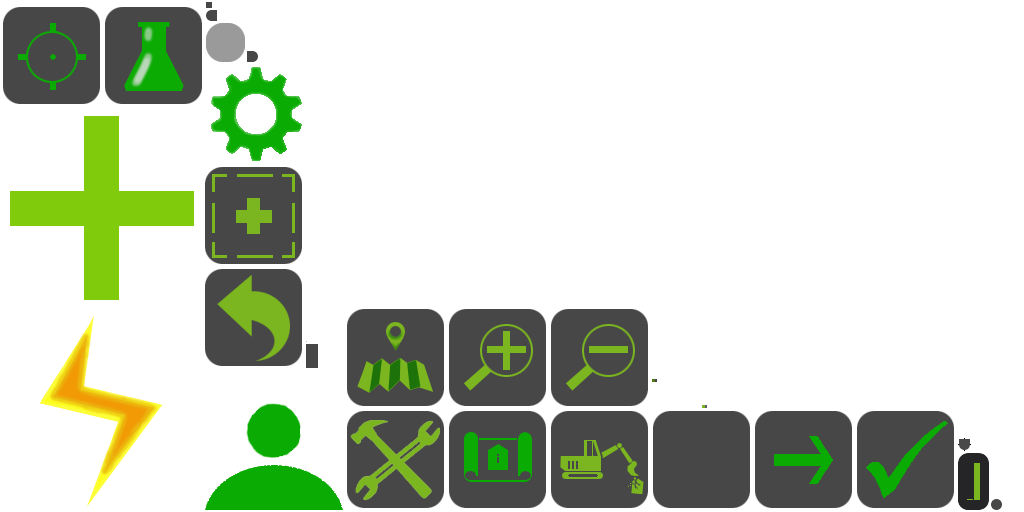
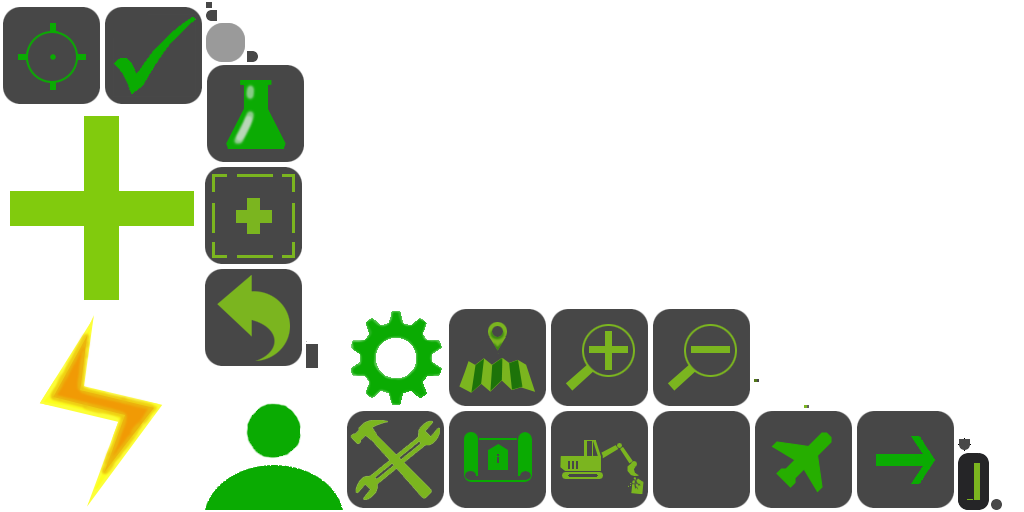
Fixed BuildingGUI and created UnitBuildingGUI

diff --git a/core/src/geobattle/geobattle/screens/gamescreen/UnitBuildingGUI.java b/core/src/geobattle/geobattle/screens/gamescreen/UnitBuildingGUI.java
@@ -1,0 +1,152 @@
+package geobattle.geobattle.screens.gamescreen;
+
+import com.badlogic.gdx.Gdx;
+import com.badlogic.gdx.assets.AssetManager;
+import com.badlogic.gdx.scenes.scene2d.Actor;
+import com.badlogic.gdx.scenes.scene2d.ui.Skin;
+import com.badlogic.gdx.scenes.scene2d.ui.Table;
+import com.badlogic.gdx.scenes.scene2d.utils.ChangeListener;
+import com.badlogic.gdx.utils.Align;
+import com.badlogic.gdx.utils.Array;
+import com.kotcrab.vis.ui.util.adapter.AbstractListAdapter;
+import com.kotcrab.vis.ui.util.adapter.ArrayAdapter;
+import com.kotcrab.vis.ui.widget.ListView;
+import com.kotcrab.vis.ui.widget.VisDialog;
+import com.kotcrab.vis.ui.widget.VisLabel;
+import com.kotcrab.vis.ui.widget.VisTable;
+import com.kotcrab.vis.ui.widget.VisTextButton;
+
+import geobattle.geobattle.GeoBattleAssets;
+import geobattle.geobattle.game.units.UnitType;
+
+public final class UnitBuildingGUI {
+    private final Skin skin;
+
+    public final VisDialog root;
+
+    public final VisLabel unitName;
+
+    public final VisLabel description;
+
+    public final VisLabel strength;
+
+    public final VisTextButton buildButton;
+
+    private UnitType unitType;
+
+    public UnitBuildingGUI(AssetManager assetManager, final GameScreen screen) {
+        skin = assetManager.get(GeoBattleAssets.GUI_SKIN);
+
+        unitType = UnitType.BOMBER;
+
+        root = new VisDialog(screen.getI18NBundle().get("unitBuilding"));
+
+        unitName = new VisLabel("");
+        description = new VisLabel("");
+        strength = new VisLabel("");
+        buildButton = new VisTextButton("");
+        buildButton.addListener(new ChangeListener() {
+            @Override
+            public void changed(ChangeEvent event, Actor actor) {
+                screen.getGameEvents().onUnitBuild(unitType);
+                // root.hide();
+            }
+        });
+
+        init(screen);
+    }
+
+    public void init(final GameScreen screen) {
+        root.getContentTable().clear();
+        root.getButtonsTable().clear();
+        root.getContentTable().pad(20);
+
+        Table unitInfo = new Table(skin);
+        unitName.setAlignment(Align.left, Align.left);
+        unitInfo.add(unitName).growX();
+        unitInfo.row();
+        description.setAlignment(Align.left, Align.left);
+        unitInfo.add(description).growX();
+        unitInfo.row();
+        strength.setAlignment(Align.left, Align.left);
+        unitInfo.add(strength).growX();
+        unitInfo.row();
+
+        ArrayAdapter<UnitType, VisTable> adapter = new ArrayAdapter<UnitType, VisTable>(Array.with(new UnitType[] { UnitType.BOMBER })) {
+            @Override
+            protected VisTable createView(UnitType item) {
+                VisTable result = new VisTable();
+
+                VisLabel label = new VisLabel(screen.getI18NBundle().get(String.format("unit%s", item.toString())));
+                result.add(label)
+                        .height(Math.max(50, (int) (Gdx.graphics.getPpcY() * 0.9f)));
+
+                if (item == unitType)
+                    selectView(result);
+                else
+                    deselectView(result);
+
+                return result;
+            }
+
+            @Override
+            protected void selectView(VisTable view) {
+                view.setBackground("listItemSelected");
+            }
+
+            @Override
+            protected void deselectView(VisTable view) {
+                view.setBackground("listItemDeselected");
+            }
+        };
+
+        adapter.setSelectionMode(AbstractListAdapter.SelectionMode.SINGLE);
+
+        final ListView<UnitType> unitTypes = new ListView<UnitType>(adapter);
+
+        unitTypes.setItemClickListener(new ListView.ItemClickListener<UnitType>() {
+            @Override
+            public void clicked(UnitType item) {
+                setUnitType(screen, item);
+            }
+        });
+
+        adapter.getSelection().setSize(1);
+        adapter.getSelection().set(0, unitType);
+        unitTypes.getClickListener().clicked(unitType);
+
+        root.getContentTable().add(unitTypes.getMainTable())
+                .growX()
+                .width(Gdx.graphics.getWidth() - 120)
+                .pad(5);
+        root.getContentTable().row();
+        root.getContentTable().add(unitInfo)
+                .growX()
+                .width(Gdx.graphics.getWidth() - 120)
+                .pad(5);
+
+        root.getButtonsTable().add(buildButton)
+                .width(Math.max(Gdx.graphics.getPpcY() * 2, (int) (buildButton.getMinWidth() * 1.2f)))
+                .height(Math.max(50, Gdx.graphics.getPpcY() * 0.9f));
+
+        VisTextButton close = new VisTextButton(screen.getI18NBundle().get("close"), new ChangeListener() {
+            @Override
+            public void changed(ChangeEvent event, Actor actor) {
+                root.hide();
+            }
+        });
+
+        root.getButtonsTable().add(close)
+                .width(Math.max(Gdx.graphics.getPpcY() * 2, (int) (buildButton.getMinWidth() * 1.2f)))
+                .height(Math.max(50, Gdx.graphics.getPpcY() * 0.9f));
+
+        root.center();
+    }
+
+    public void setUnitType(GameScreen screen, UnitType unitType) {
+        unitName.setText(screen.getI18NBundle().get(String.format("unit%s", unitType.toString())));
+        description.setText(screen.getI18NBundle().get(String.format("unit%sDescription", unitType.toString())));
+        strength.setText(screen.getI18NBundle().format("unitStrength", unitType.maxHealth));
+        buildButton.setText(screen.getI18NBundle().format("unitBuild", unitType.cost));
+    }
+}

diff --git a/core/src/geobattle/geobattle/screens/gamescreen/GameScreenGUI.java b/core/src/geobattle/geobattle/screens/gamescreen/GameScreenGUI.java
@@ -6,22 +6,19 @@ import com.badlogic.gdx.scenes.scene2d.Actor;
 import com.badlogic.gdx.scenes.scene2d.Stage;
 import com.badlogic.gdx.scenes.scene2d.ui.Dialog;
 import com.badlogic.gdx.scenes.scene2d.ui.Skin;
-import com.badlogic.gdx.scenes.scene2d.ui.TextButton;
 import com.badlogic.gdx.scenes.scene2d.utils.ChangeListener;
 import com.badlogic.gdx.utils.Align;
 import com.kotcrab.vis.ui.widget.VisImage;
 import com.kotcrab.vis.ui.widget.VisImageButton;
 import com.kotcrab.vis.ui.widget.VisLabel;
 import com.kotcrab.vis.ui.widget.VisTable;
-import com.kotcrab.vis.ui.widget.VisTextButton;
 
 import geobattle.geobattle.GeoBattleAssets;
 import geobattle.geobattle.game.buildings.Building;
 import geobattle.geobattle.game.buildings.BuildingType;
-import geobattle.geobattle.game.units.UnitType;
 
 // GUI for game screen
-final class GameScreenGUI {
+public final class GameScreenGUI {
     // GUI skin
     private final Skin skin;
 
@@ -79,6 +76,9 @@ final class GameScreenGUI {
     // Tool bar for hangar
     public final VisTable hangarToolBar;
 
+    // "Unit building" dialog
+    public final UnitBuildingGUI hangarDialog;
+
     // "Research" dialog
     public final ResearchGUI researchDialog;
 
@@ -93,6 +93,9 @@ final class GameScreenGUI {
 
     // Size of usual tool bar button
     private int buttonSize;
+
+    // Selected building
+    private Building selectedBuilding;
 
     // Initializes GUI
     public GameScreenGUI(AssetManager assetManager, final GameScreen screen, final Stage guiStage) {
@@ -137,6 +140,8 @@ final class GameScreenGUI {
         hangarToolBar = new VisTable();
         guiStage.addActor(hangarToolBar);
 
+        hangarDialog = new UnitBuildingGUI(assetManager, screen);
+
         researchDialog = new ResearchGUI(assetManager, screen);
 
         labels = new VisTable();
@@ -176,6 +181,7 @@ final class GameScreenGUI {
         initSelectSectorToolBar(screen);
         initSelectBuildingTypeDialog(screen);
         initHangarToolBar(screen);
+        initHangarDialog(screen);
         initResearchDialog(screen);
         initLabels();
     }
@@ -530,20 +536,28 @@ final class GameScreenGUI {
         hangarToolBar.clear();
         hangarToolBar.setFillParent(true);
 
-        for (final UnitType unitType : UnitType.values()) {
-            TextButton buildUnit = new TextButton(unitType.name.substring(0, 1), skin);
-            buildUnit.addListener(new ChangeListener() {
-                @Override
-                public void changed(ChangeEvent event, Actor actor) {
-                    screen.getGameEvents().onUnitBuild(unitType);
-                }
-            });
-            hangarToolBar.add(buildUnit)
-                    .width(buttonSize)
-                    .height(buttonSize);
-        }
+        VisImageButton hangar = new VisImageButton("buttonHangar");
+        hangar.addListener(new ChangeListener() {
+            @Override
+            public void changed(ChangeEvent event, Actor actor) {
+                showHangarDialog();
+            }
+        });
+        hangarToolBar.add(hangar)
+                .width(buttonSize)
+                .height(buttonSize);
 
-        hangarToolBar.right().padRight(20).top().padTop(20);
+        hangarToolBar.right().padRight(20).bottom().padBottom(20 + buttonSize);
+    }
+
+    // Initializes hangar dialog
+    private void initHangarDialog(GameScreen screen) {
+        hangarDialog.init(screen);
+    }
+
+    // Shows hangar dialog
+    private void showHangarDialog() {
+        hangarDialog.root.show(guiStage);
     }
 
     private void initResearchDialog(final GameScreen screen) {
@@ -592,6 +606,11 @@ final class GameScreenGUI {
     }
 
     public void onBuildingSelected(Building building) {
+        if (building == selectedBuilding)
+            return;
+
+        selectedBuilding = building;
+
         hangarToolBar.setVisible(false);
 
         if (building == null)

diff --git a/core/src/geobattle/geobattle/screens/gamescreen/BuildingGUI.java b/core/src/geobattle/geobattle/screens/gamescreen/BuildingGUI.java
@@ -54,6 +54,12 @@ public final class BuildingGUI {
         energy = new VisLabel("");
         maxCount = new VisLabel("");
         buildButton = new VisTextButton("");
+        buildButton.addListener(new ChangeListener() {
+            @Override
+            public void changed(ChangeEvent event, Actor actor) {
+                root.hide();
+            }
+        });
 
         init(screen);
     }
@@ -125,13 +131,6 @@ public final class BuildingGUI {
         adapter.getSelection().setSize(1);
         adapter.getSelection().set(0, buildingType);
         buildingTypes.getClickListener().clicked(buildingType);
-
-        buildButton.addListener(new ChangeListener() {
-            @Override
-            public void changed(ChangeEvent event, Actor actor) {
-                root.hide();
-            }
-        });
 
         root.getContentTable().add(buildingTypes.getMainTable())
                 .growX()

diff --git a/core/src/geobattle/geobattle/screens/gamescreen/GameScreen.java b/core/src/geobattle/geobattle/screens/gamescreen/GameScreen.java
@@ -258,6 +258,8 @@ public final class GameScreen implements Screen {
             ));
         }
 
+        gui.onBuildingSelected(map.getPointedBuilding());
+
         if (debugMode) {
             gui.debugInfo.setText(String.format(
                     Locale.US,
@@ -314,8 +316,6 @@ public final class GameScreen implements Screen {
 
             map.setPointedTile(point.x, point.y, false);
             Building pointed = map.getPointedBuilding();
-
-            gui.onBuildingSelected(pointed);
 
             return true;
         }
